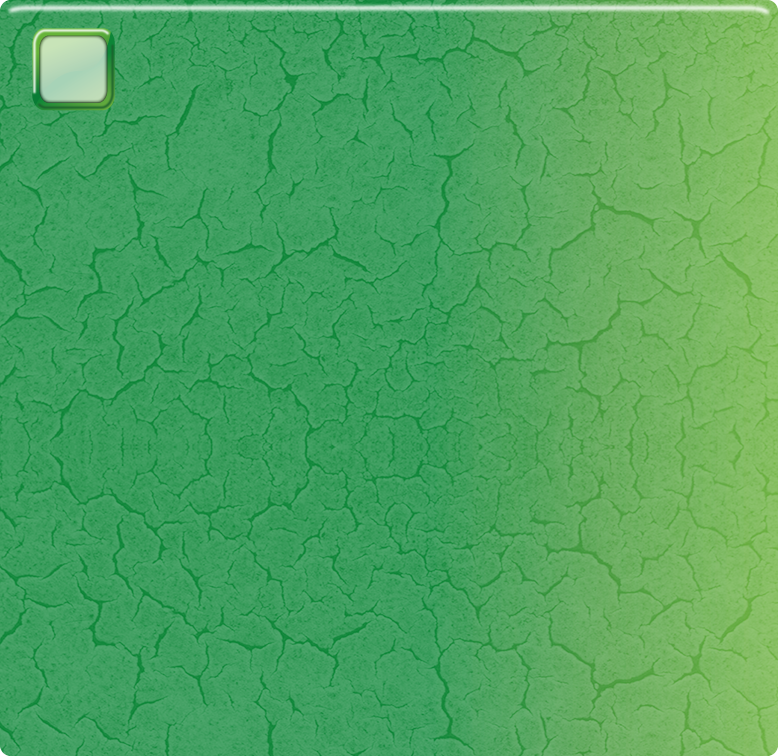
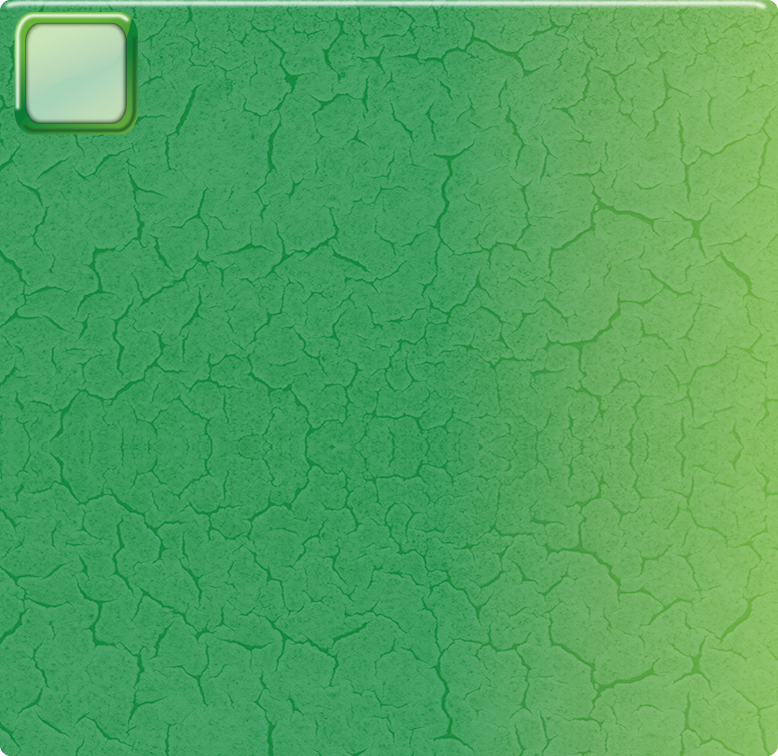
Matter-Section + buyMenu-Anbindung

Changed region(s): [[0.0, 0.0, 0.9871, 0.1825]]

diff --git a/client/game.html b/client/game.html
@@ -45,10 +45,90 @@
     <div id="unten" class="bot">
         <div id="matter_left" class="matter_edge bot left"></div>
         <div id="matter_content" class="bot">
-            <img class="cba inherit" src="/Aufloesung1920x1080/Mine/CubeWeißGleichPupsen_goldbraun.png" style="left:20px">
+
+        	{{#each mineSlots}}
+
+        	<div class="matter_colorBlocks">
+
+
+        	</div>
+
+        	{{/each}}
+
+        	<div class="matter_colorBlocks">
+        		<img class="img_matter" src="/Aufloesung1920x1080/Mine/CubeWeißGleichPupsen_gruen.png">
+        		<div class="text_matter" > 1.000.000 </div>
+        		<div class="wrapper_specialRessource">
+        			<div class="sr_left"> 
+        				<div class="sr_slot">
+	        				<img class="img_specialRessources" src="/Aufloesung1920x1080/Interface/SpecialRessources/srMine.png">
+	        				<div class="text_specialRessources" > 1.000.000 </div>
+        				</div>
+        				<div class="sr_slot"> 
+        					<img class="img_specialRessources" src="/Aufloesung1920x1080/Interface/SpecialRessources/srBattlefield.png">
+	        				<div class="text_specialRessources" > 1.000.000 </div>
+        				</div>
+        				<div class="sr_slot">
+        					<img class="img_specialRessources" src="/Aufloesung1920x1080/Interface/SpecialRessources/srLaboratory.png">
+	        				<div class="text_specialRessources" > 1.000.000 </div>
+        				</div>
+        			</div>
+        			<div class="sr_right"> 
+        				<div class="sr_slot">
+	        				<img class="img_specialRessources" src="/Aufloesung1920x1080/Interface/SpecialRessources/srWorkshop.png">
+	        				<div class="text_specialRessources" > 1.000.000 </div>
+        				</div>
+        				<div class="sr_slot"> 
+        					<img class="img_specialRessources" src="/Aufloesung1920x1080/Interface/SpecialRessources/srThievery.png">
+	        				<div class="text_specialRessources" > 1.000.000 </div>
+        				</div>
+        				<div class="sr_slot">
+        					<img class="img_specialRessources" src="/Aufloesung1920x1080/Interface/SpecialRessources/srSmelter.png">
+	        				<div class="text_specialRessources" > 1.000.000 </div>
+        				</div>
+        			</div>
+        		</div>
+        	</div>
+
+        	<div class="matter_colorBlocks">
+        		<img class="img_matter" src="/Aufloesung1920x1080/Mine/CubeWeißGleichPupsen_rot.png">
+        		<div class="text_matter" > 400 </div>
+        		<div class="wrapper_specialRessource">
+        			<div class="sr_left"> 
+        				<div class="sr_slot">
+	        				<img class="img_specialRessources" src="/Aufloesung1920x1080/Interface/SpecialRessources/srMine.png">
+	        				<div class="text_specialRessources" > 1.000.000 </div>
+        				</div>
+        				<div class="sr_slot"> 
+        					<img class="img_specialRessources" src="/Aufloesung1920x1080/Interface/SpecialRessources/srBattlefield.png">
+	        				<div class="text_specialRessources" > 1.000.000 </div>
+        				</div>
+        				<div class="sr_slot">
+        					<img class="img_specialRessources" src="/Aufloesung1920x1080/Interface/SpecialRessources/srLaboratory.png">
+	        				<div class="text_specialRessources" > 1.000.000 </div>
+        				</div>
+        			</div>
+        			<div class="sr_right"> 
+        				<div class="sr_slot">
+	        				<img class="img_specialRessources" src="/Aufloesung1920x1080/Interface/SpecialRessources/srWorkshop.png">
+	        				<div class="text_specialRessources" > 1.000.000 </div>
+        				</div>
+        				<div class="sr_slot"> 
+        					<img class="img_specialRessources" src="/Aufloesung1920x1080/Interface/SpecialRessources/srThievery.png">
+	        				<div class="text_specialRessources" > 1.000.000 </div>
+        				</div>
+        				<div class="sr_slot">
+        					<img class="img_specialRessources" src="/Aufloesung1920x1080/Interface/SpecialRessources/srSmelter.png">
+	        				<div class="text_specialRessources" > 1.000.000 </div>
+        				</div>
+        			</div>
+        		</div>
+        	</div>
+
+<!--        <img class="cba inherit" src="/Aufloesung1920x1080/Mine/CubeWeißGleichPupsen_goldbraun.png" style="left:20px">
             <img class="cba inherit" src="/Aufloesung1920x1080/Mine/CubeWeißGleichPupsen_goldbraun.png" style="left:100px">
             <img class="cba inherit" src="/Aufloesung1920x1080/Mine/CubeWeißGleichPupsen_gruen.png" style="left:170px">
-            <img class="cba inherit" src="/Aufloesung1920x1080/Mine/CubeWeißGleichPupsen_rot.png" style="left:240px">
+            <img class="cba inherit" src="/Aufloesung1920x1080/Mine/CubeWeißGleichPupsen_rot.png" style="left:240px"> -->
         </div>
         <div id="matter_right" class="matter_edge bot right"></div>
     </div>
@@ -149,6 +229,11 @@
                             <div id="left_slider_slot_items" class="left slot_items_slider"></div>
                             <div class="slot_items_wrapper">
                                 <div class="slot_items_content relative">
+
+                                	{{#each mineSlots}}
+
+                                    <div class="item relative">  <img class="buyableMatter" src={{imgPath}}>  </div>
+                                    <div class="item relative">  <p class='text relative'>Value: {{value}}</p>  </div>
                                     <div class="item relative"></div>
                                     <div class="item relative"></div>
                                     <div class="item relative"></div>
@@ -156,8 +241,9 @@
                                     <div class="item relative"></div>
                                     <div class="item relative"></div>
                                     <div class="item relative"></div>
-                                    <div class="item relative"></div>
-                                    <div class="item relative"></div>
+
+                                    {{/each}}
+
                                 </div>
                             </div>
                             <div id="right_slider_slot_items" class="right slot_items_slider"></div>
@@ -221,10 +307,12 @@
 
 		<div id="mineBuyMenuFrame" class="left right">
 
+			<img id="mineBuyMenuMatterBlock">
+
 			<div id="mineBuyMenuText">
-			<p class='relative'>Price: {{value}}</p>
-			<p class='relative'>Matter: {{slots}}</p>
-			<p class='relative'>Time: {{remaining}}</p>
+			<p id="price" class='relative'>Price: {{value}}</p>
+			<p id="matter" class='relative'>Matter: {{slots}}</p>
+			<p id="time" class='relative'>Time: {{remaining}}</p>
 			</div>
 
 			<div id="rangeSlider">

diff --git a/client/client.js b/client/client.js
@@ -5,7 +5,6 @@
 //[JQUERY: ATTR = Attribute Selector!]
 // expl: $(this).attr('id') 
 
-var clicked = false;
 // var elm = document.createElement("div");
 // var jelm = $(elm);//convert to jQuery Element
 // var htmlElm = jelm[0];//convert to HTML Element
@@ -77,37 +76,6 @@ if (Meteor.isClient) {
         },
 
     });
-
-/*	Template.masterLayout.events({
-		'mouseover .slider' : function(e, t){
-			slide_right();
-
-		},
-		'mouseout .slider' : function(e, t){
-			slide_stop();
-
-		}
-
-	});*/
-
-
-  //TODO: noch nicht fertig !
-  Template.mineBuyMenu.events({
-
-    'click #buyMenuYes' : function(e, t){
-
-          $('#mineBuyMenu').hide();
-
-        },
-
-        'click #buyMenuNo' : function(e, t){
-
-          $('#mineBuyMenu').hide();
-
-        },
-  })
-
-
 
 /*	//TODO: noch nicht fertig !
 	Template.gameMiddle.events({
@@ -465,9 +433,58 @@ if (Meteor.isClient) {
                     "height": "0px"
                 }, 1000);
             }
+        },
+
+        'click .item': function(e, t) {
+
+          var remaining = this.remaining;
+          var value = this.value;
+          var id = this._id;
+          var slots = this.slots;
+
+          //bräuchte man noch:
+          // var imgPath = this.imgPath;
+
+/*          console.log(this);
+          console.log(this +" "+remaining+" "+slots+" "+value+" "+id);*/
+
+          // var imgPath: $('#mineBuyMenuMatterBlock').src="imgPath";
+
+          //rausgenommen, weil es zu langsam rendert. Funktionen, die zugreifen wollen, reagieren zu früh
+          //Das Element muss vorher schon gerendert werden (Aber display: hidden)
+/*          if(!$("#mineBuyMenu").length) {
+
+            Router.current().render('mineBuyMenu', {to: 'buyMenu'});
+
+          } 
+
+          else {*/
+
+            $('#mineBuyMenu').fadeIn();
+            $("#mineBuyMenuMatterBlock").attr("src","/Aufloesung1920x1080/Mine/BuyMenu/NOButton.png");
+            $('#price').text("Price: "+remaining);
+            $('#matter').text("Matter: "+slots);
+            $('#time').text("Time: "+value);
         }
 
     });
+
+    //TODO: noch nicht fertig !
+    Template.mineBuyMenu.events({
+
+      'click #buyMenuYes' : function(e, t){
+
+            $('#mineBuyMenu').fadeOut();
+
+          },
+
+          'click #buyMenuNo' : function(e, t){
+
+            $('#mineBuyMenu').fadeOut();
+
+          },
+    })
+
 
     var time = 1200; //Animationszeit in ms
     var c = 1; //Start Kategorie

diff --git a/Scrounge.css b/Scrounge.css
@@ -357,6 +357,8 @@ img.i7 {
 		top:162px;
 		bottom:162px;
 		width: 778px;
+		z-index: 5;
+		display: none;
 	}
 
 	#mineBuyMenuFrame {
@@ -403,7 +405,15 @@ img.i7 {
 		font-size: 1em;
 	}
 
-		#rangeSlider {
+	#mineBuyMenuMatterBlock {
+		width: 85px;
+		height: 85px;
+		left: 30px;
+		top: 30px;
+		position: relative;
+	}
+
+	#rangeSlider {
 		top: 20px;
 		left: 144px;
 		width: 622px;
@@ -453,6 +463,119 @@ img.i7 {
 		margin: 1px;
 		background-image:url(/Aufloesung1920x1080/Mine/BuyMenu/ScroungeSlotAvailable.png);
 	}
+
+
+
+
+
+
+
+
+
+
+
+
+	/*MATTER COLOR BLOCKS*/
+
+	.matter_colorBlocks {
+		float: left;
+		position: relative;
+		width: 250px;
+		height: 152px;
+		margin-right: 10px;
+		background-color: brown;
+	}
+
+	.text_matter {
+		display: inline;
+		width: 200px;
+		right: 10px;
+		top: 20px;
+		margin: 0px;
+	    color: white;
+	    font-family:"OCR A Std";
+	    font-size: 1.5em;
+	    text-align: right;
+	    text-shadow: -2px 0 black, 0 2px black, 2px 0 black, 0 -2px black;
+	    -ms-user-select: none;
+	    -webkit-user-select: none;
+	    -moz-user-select: none;
+	    user-select: none;
+	    cursor:default;
+	}
+
+	.text_specialRessources {
+		display: inline;
+		width: 100px;
+		right: 5px;
+		top: 12px;
+		margin: 0px;
+	    color: white;
+	    font-family:"OCR A Std";
+	    font-size: 0.8em;
+	    text-align: right;
+	    text-shadow: -2px 0 black, 0 2px black, 2px 0 black, 0 -2px black;
+	    -ms-user-select: none;
+	    -webkit-user-select: none;
+	    -moz-user-select: none;
+	    user-select: none;
+	    cursor:default;
+	}
+
+	.img_matter {
+		position: relative;
+		display: inline;
+		left: 10px;
+		top: 5px;
+		width: 50px;
+		height: 50px;
+	}
+
+	.img_specialRessources {
+		position: relative;
+		display: inline;
+		left: 5px;
+		top: 5px;
+		width: 25px;
+		height: 25px;
+	}
+
+	.wrapper_specialRessource {
+		bottom: 0px;
+		width: 250px;
+		height: 92px;
+		background-color: green;
+	}
+
+	.sr_left {
+		bottom: 0px;
+		left: 5px;
+		width: 120px;
+		height: 92px;
+		background-color: blue;
+	}
+
+	.sr_right {
+		bottom: 0px;
+		right: 0px;
+		width: 120px;
+		height: 92px;
+		background-color: red;
+	}
+
+	.sr_slot {
+		float: left;
+		position: relative;
+		width: 120px;
+		height: 30px;
+	}
+
+
+
+
+
+
+
 
 
 

diff --git a/client/router.js b/client/router.js
@@ -20,7 +20,8 @@ Router.map( function () {
 
     yieldTemplates:{
       'standardBorder': {to: 'border'},
-      'gameMiddle': {to: 'middle'},  
+      'gameMiddle': {to: 'middle'}, 
+      'mineBuyMenu': {to: 'buyMenu'}, 
     },
 /*
     action: function () {
